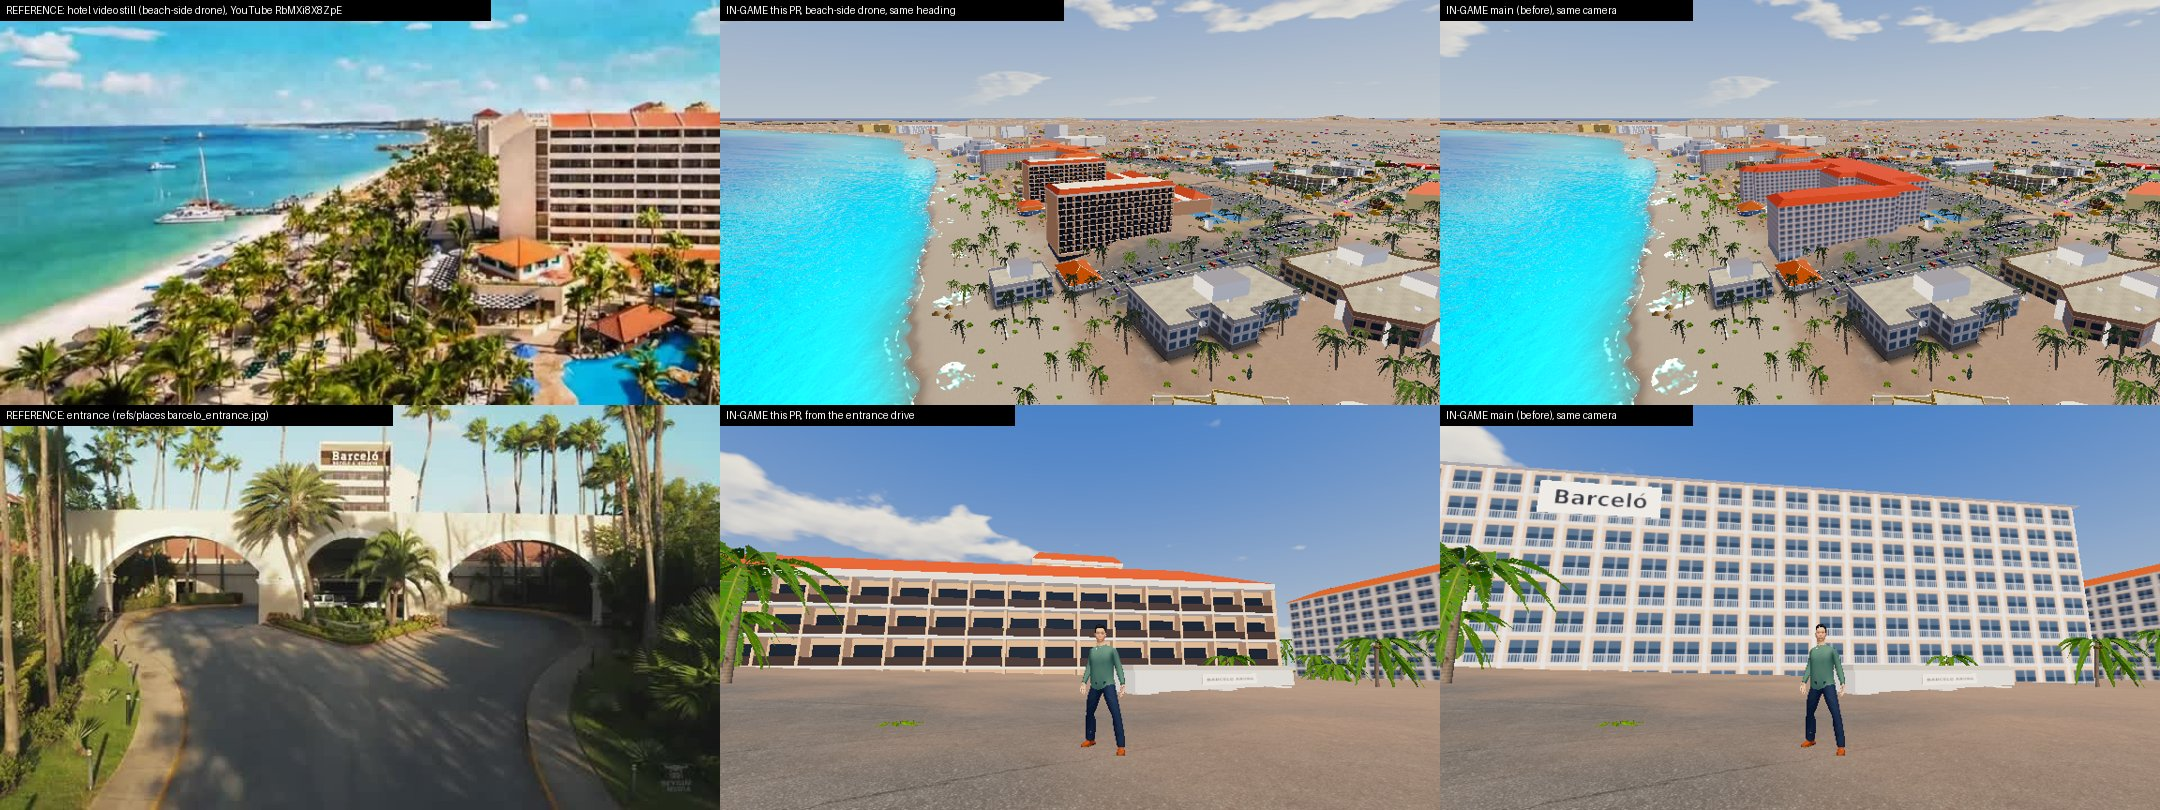
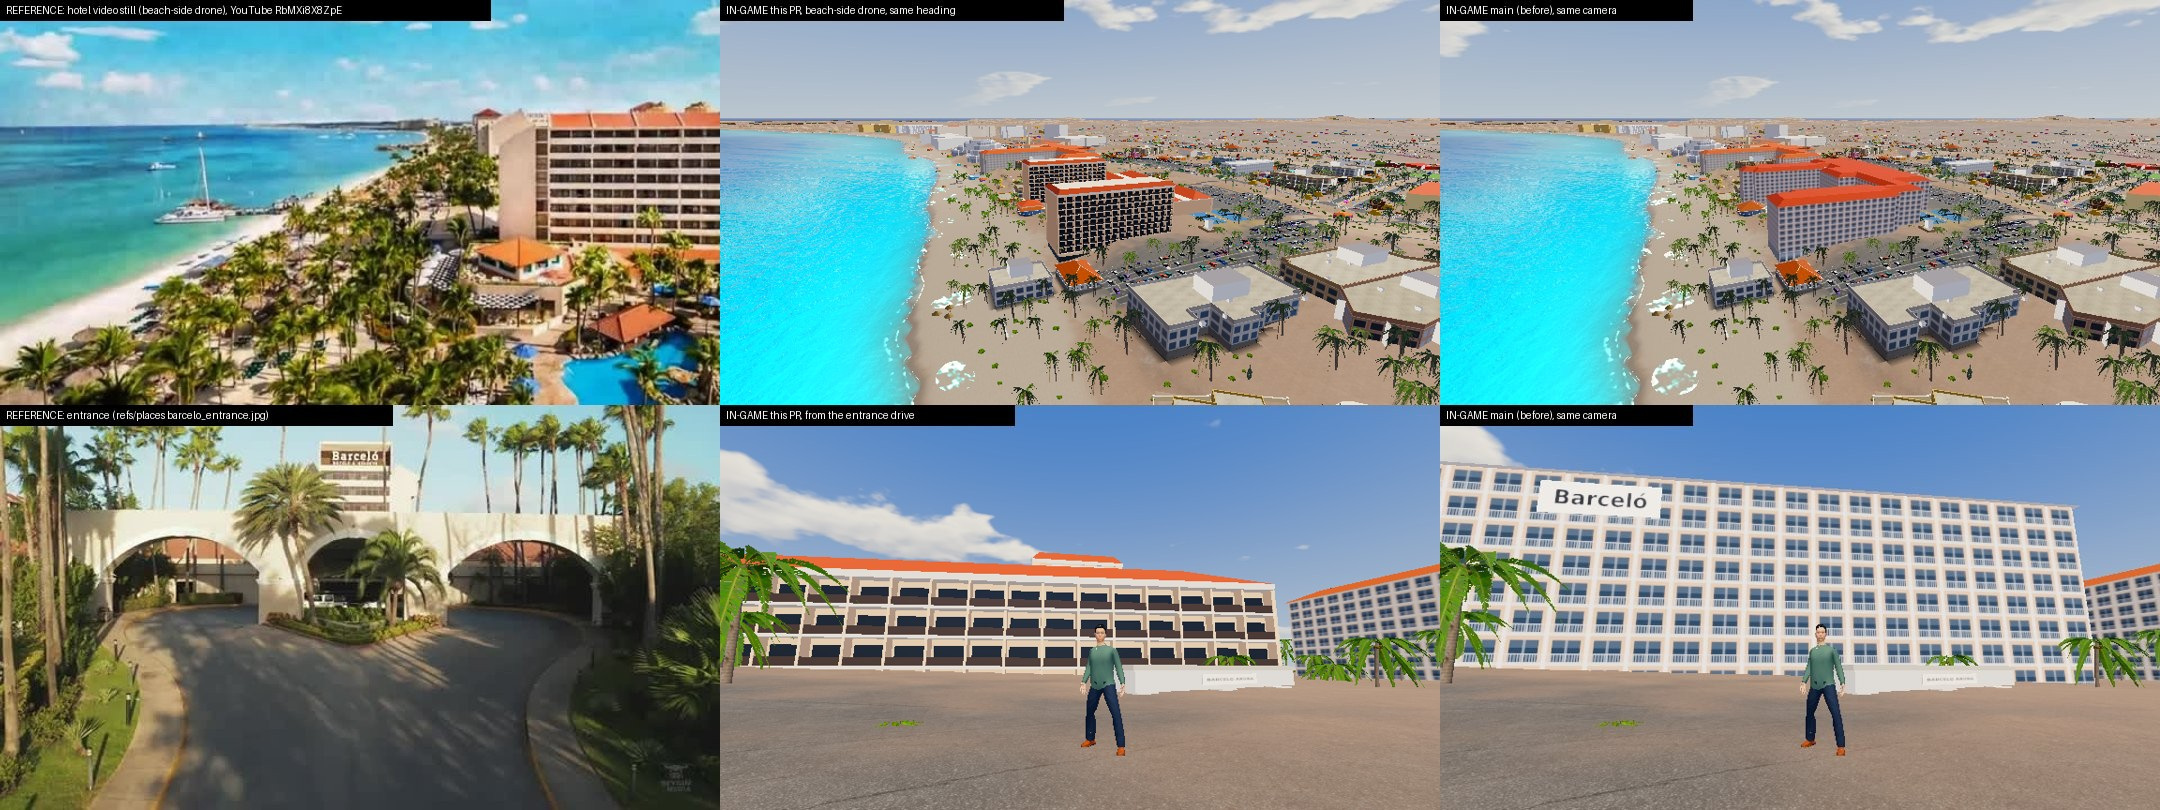
Barceló: facade peach sampled from drone still, solved through game lighting; refresh compare

diff --git a/tools/grokbot/barcelo.py b/tools/grokbot/barcelo.py
@@ -32,8 +32,8 @@ RING = [(-8372, -5532.1), (-8314.2, -5504.8), (-8313.2, -5506.9), (-8309.5, -550
         (-8282.5, -5554.2), (-8299.2, -5519.5), (-8305.5, -5522.5), (-8303.1, -5527.6), (-8351.1, -5550.4),
         (-8352.7, -5547), (-8362.6, -5551.6)]
 
-PEACH = (0.94, 0.76, 0.60)
-PEACH_SH = (0.86, 0.68, 0.53)
+PEACH = (1.0, 0.85, 0.69)  # sampled: drone still sunlit wall sRGB (218,188,165), solved through game light gain
+PEACH_SH = (0.93, 0.78, 0.63)
 WHITE = (0.94, 0.92, 0.87)
 TILE = (0.66, 0.30, 0.19)
 RAIL = (0.30, 0.24, 0.20)
